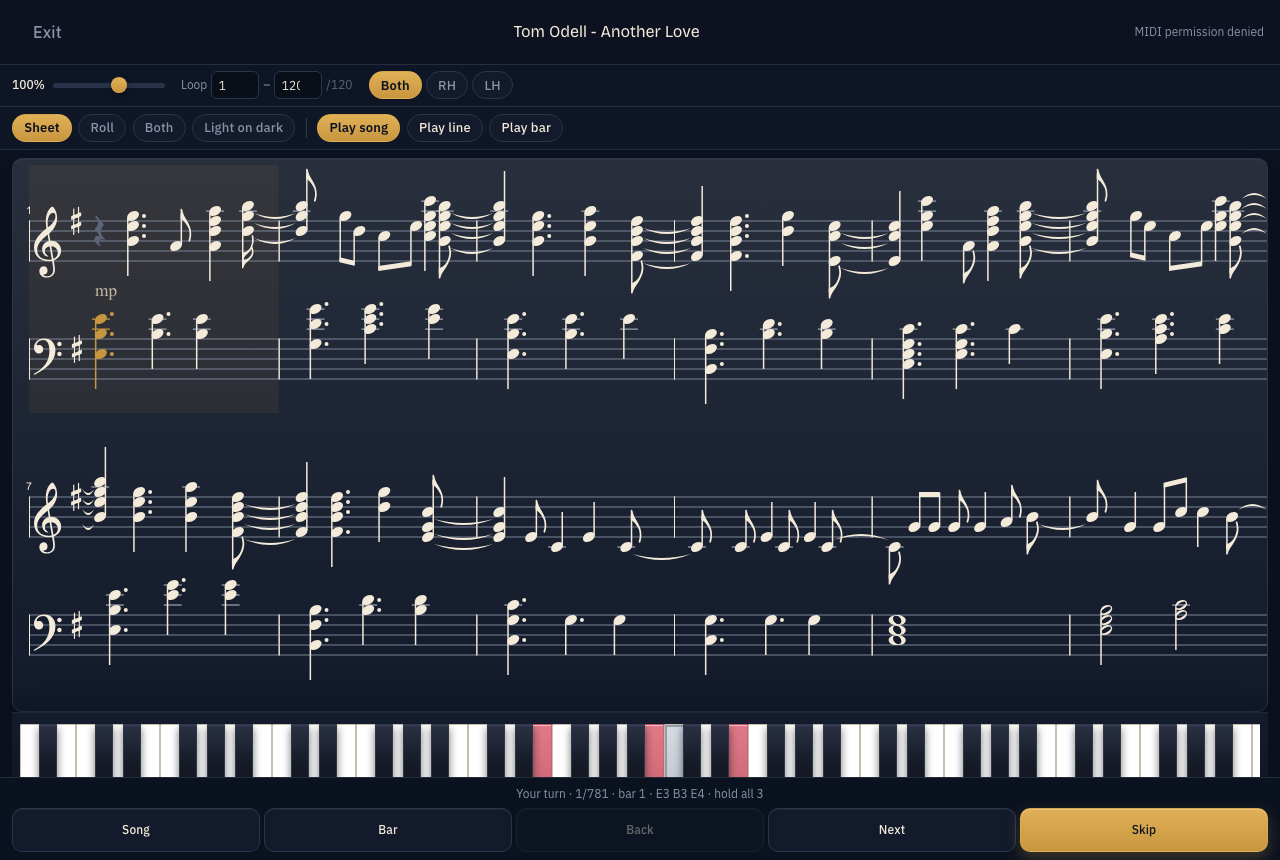
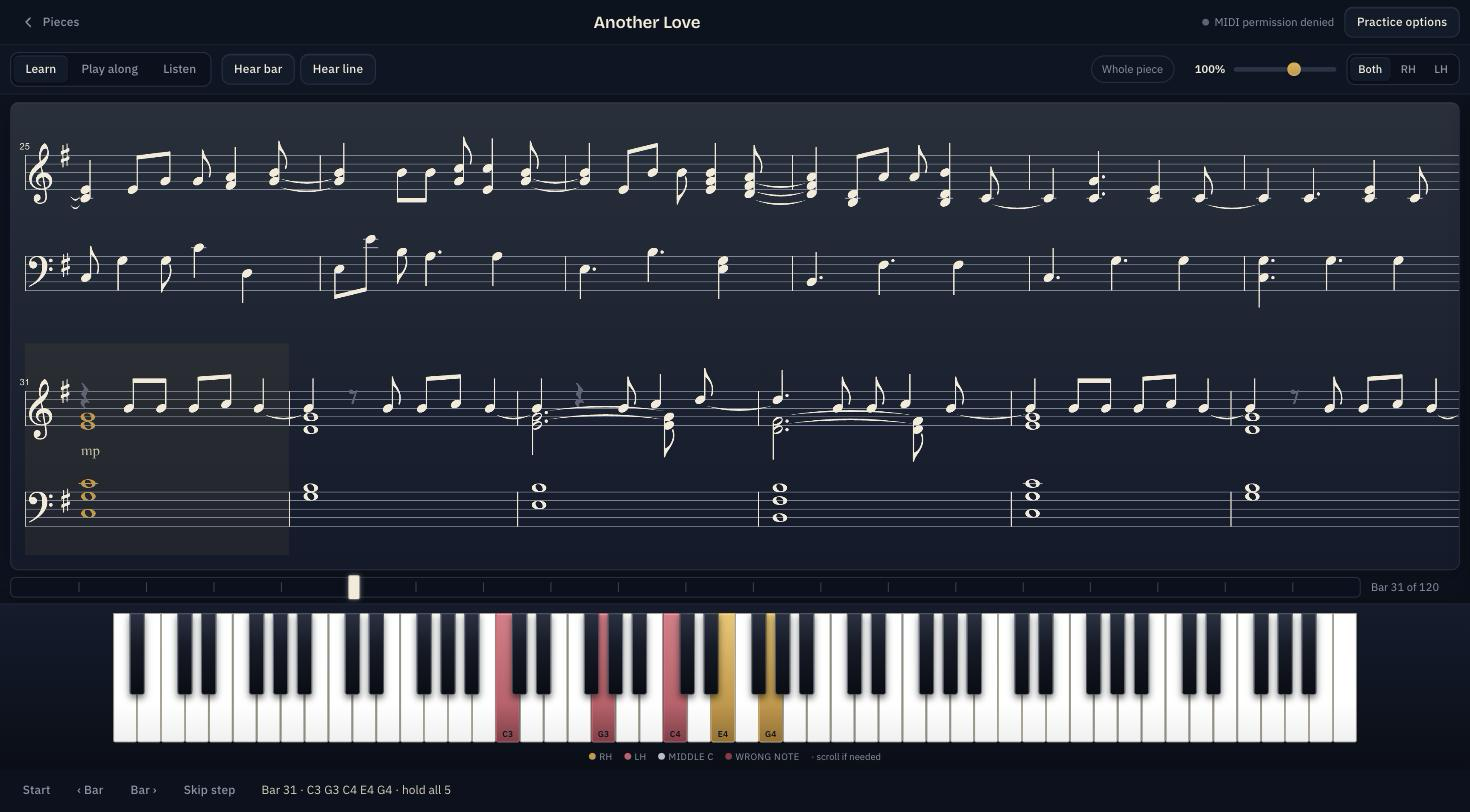
Keep practice data in its own IndexedDB; refresh README
- Store per-piece settings and sessions in a new keys-practice database
  instead of upgrading keys-pieces to v2, so switching back to an older
  build (which opens keys-pieces at v1) keeps working
- README: practice modes, the Practice options switches, what the sheet
  engraving now handles, and new screenshots

diff --git a/src/pieces/pieceStore.ts b/src/pieces/pieceStore.ts
@@ -9,6 +9,13 @@ interface KeysDB extends DBSchema {
     key: string
     value: StoredPiece
   }
+}
+
+/**
+ * Practice data lives in its own database so the pieces database keeps
+ * its original version (older builds of the app can still open it).
+ */
+interface PracticeDB extends DBSchema {
   /** Per-piece settings (tempo, hands, range, switches). */
   pieceState: {
     key: string
@@ -23,26 +30,33 @@ interface KeysDB extends DBSchema {
 }
 
 let dbPromise: Promise<IDBPDatabase<KeysDB>> | null = null
+let practicePromise: Promise<IDBPDatabase<PracticeDB>> | null = null
 
 function db() {
   if (!dbPromise) {
-    dbPromise = openDB<KeysDB>('keys-pieces', 2, {
-      upgrade(database, oldVersion) {
-        if (oldVersion < 1) {
-          database.createObjectStore('pieces', { keyPath: 'id' })
-        }
-        if (oldVersion < 2) {
-          database.createObjectStore('pieceState', { keyPath: 'pieceId' })
-          const sessions = database.createObjectStore('sessions', {
-            keyPath: 'id',
-            autoIncrement: true,
-          })
-          sessions.createIndex('byPiece', 'pieceId')
-        }
+    dbPromise = openDB<KeysDB>('keys-pieces', 1, {
+      upgrade(database) {
+        database.createObjectStore('pieces', { keyPath: 'id' })
       },
     })
   }
   return dbPromise
+}
+
+function practiceDb() {
+  if (!practicePromise) {
+    practicePromise = openDB<PracticeDB>('keys-practice', 1, {
+      upgrade(database) {
+        database.createObjectStore('pieceState', { keyPath: 'pieceId' })
+        const sessions = database.createObjectStore('sessions', {
+          keyPath: 'id',
+          autoIncrement: true,
+        })
+        sessions.createIndex('byPiece', 'pieceId')
+      },
+    })
+  }
+  return practicePromise
 }
 
 export async function listPieces(): Promise<StoredPiece[]> {
@@ -54,10 +68,11 @@ export async function getPiece(id: string): Promise<StoredPiece | undefined> {
   return (await db()).get('pieces', id)
 }
 
+/** Delete a piece with its settings and practice history. */
 export async function deletePiece(id: string): Promise<void> {
-  const d = await db()
-  const tx = d.transaction(['pieces', 'pieceState', 'sessions'], 'readwrite')
-  await tx.objectStore('pieces').delete(id)
+  await (await db()).delete('pieces', id)
+  const p = await practiceDb()
+  const tx = p.transaction(['pieceState', 'sessions'], 'readwrite')
   await tx.objectStore('pieceState').delete(id)
   const byPiece = tx.objectStore('sessions').index('byPiece')
   for (let c = await byPiece.openCursor(id); c; c = await c.continue()) {
@@ -85,22 +100,20 @@ export async function importMidiFile(file: File): Promise<StoredPiece> {
 }
 
 export async function getPieceState(pieceId: string): Promise<PieceState | undefined> {
-  return (await db()).get('pieceState', pieceId)
+  return (await practiceDb()).get('pieceState', pieceId)
 }
 
 export async function savePieceState(state: PieceState): Promise<void> {
-  await (await db()).put('pieceState', state)
+  await (await practiceDb()).put('pieceState', state)
 }
 
 /** Sessions for one piece, or every piece when omitted. */
 export async function listSessions(pieceId?: string): Promise<PracticeSession[]> {
-  const d = await db()
-  return pieceId
-    ? d.getAllFromIndex('sessions', 'byPiece', pieceId)
-    : d.getAll('sessions')
+  const p = await practiceDb()
+  return pieceId ? p.getAllFromIndex('sessions', 'byPiece', pieceId) : p.getAll('sessions')
 }
 
 /** Insert or update a session; returns its id. */
 export async function saveSession(session: PracticeSession): Promise<number> {
-  return (await db()).put('sessions', session)
+  return (await practiceDb()).put('sessions', session)
 }

diff --git a/README.md b/README.md
@@ -1,6 +1,6 @@
 # Keys
 
-A music-stand piano practice app focused on **MIDI playthrough**: import a piece, read real sheet music, and play along on a USB keyboard with live grading and demo playback.
+A music-stand piano practice app focused on **MIDI playthrough**: import a piece, read real sheet music, and practise it on a USB keyboard. Learn it step by step, play along in time with grading, or listen to it.
 
 ![Playthrough](docs/screenshots/04-playthrough.png)
 
@@ -11,26 +11,49 @@ Keys is built around a **real piano / digital keyboard over USB-MIDI** (for exam
 1. Connect the keyboard to your computer with a USB cable.
 2. Open Keys in **Chrome** (Web MIDI).
 3. On Home, choose **MIDI**.
-4. Play — held notes are graded automatically.
+4. Play: held notes are graded automatically.
 
 Self-report (Hit / Miss) exists as a fallback when no keyboard is available, but playthrough and practice feel much better with MIDI connected.
 
-## Playthrough
+## Practising a piece
 
 1. Open **Pieces** → **Import MIDI** (`.mid` / `.midi`).
-2. The piece opens in walk-through / playthrough with:
-   - VexFlow **sheet music** (and optional piano roll)
-   - Full on-screen **88-key** piano with RH / LH colors
-   - **Play song / Play line / Play bar**, plus Pause / Resume / Stop
-   - Measure navigation (buttons, arrows, scroll)
-   - **Light on dark ↔ Dark on light** sheet invert
-3. Play the current step on your MIDI keyboard (or listen with Play song).
+2. Pick a mode:
+   - **Learn** waits for you to play each step on your keyboard. You can hear a bar or a line first.
+   - **Play along** keeps time with a metronome and a one-bar count-in. It grades every note as on time, early, late, missed or wrong, colours the noteheads, and ends with a results card.
+   - **Listen** plays the piece, a bar or a line, with the sustain pedal.
+3. Choose **RH / LH / Both** and the tempo. Drag on the **bar strip** under the sheet (or shift-click bars) to practise part of the piece. Click it to jump. **← →** move by bar, and **Space** plays, pauses or skips.
 
-Imported pieces stay in this browser’s IndexedDB on your machine — they are not uploaded anywhere.
+**Practice options** (top right) are switches, saved with each piece:
+
+| Switch | What it does |
+| --- | --- |
+| Play the other hand for me | While you practise one hand, the app plays the other (after each step in Learn, in time in Play along) |
+| Show my keys and wrong notes | Your held keys light up on the on-screen piano; wrong notes turn red |
+| Repeat the range / Speed up after clean passes | Loop the range, raising the tempo a step after each pass with no mistakes |
+| Metronome / Count in one bar | For Play along |
+| Remember settings for this piece | Tempo, hands, range and these switches |
+| Track practice stats | Time practised, clean runs, best tempo, and where mistakes cluster (tinted on the bar strip) |
+
+The sheet music is engraved from the MIDI file:
+- 6/8 and cut time are written correctly.
+- Triplets and sextuplets are detected.
+- Held notes move to a second voice.
+- Key and time signature changes are drawn, and minor keys are spelled correctly.
+- A hand that sits far outside its clef switches clef for that line.
+- Each line holds as many bars as fit.
+
+The **Pieces** list shows how practice is going, including the date of your first clean play-through of each piece.
+
+Imported pieces and practice history stay in this browser's IndexedDB on your machine. They are not uploaded anywhere.
 
 | Sheet (light on dark) | Sheet (dark on light) |
 | --- | --- |
 | ![Playthrough](docs/screenshots/04-playthrough.png) | ![Paper](docs/screenshots/05-playthrough-paper.png) |
+
+| Practice options | Pieces |
+| --- | --- |
+| ![Practice options](docs/screenshots/06-practice-options.png) | ![Pieces](docs/screenshots/07-library.png) |
 
 ## Also included
 
